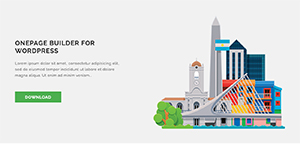
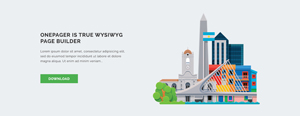
[Block] content 1 done image source left

diff --git a/onepager/resources/src/styles/blocks.less b/onepager/resources/src/styles/blocks.less
@@ -15,6 +15,14 @@
 body{ position: relative; .transition(all .25s ease-out); }
 
 /* ==========================================
+   Blocks: Common
+ ============================================ */
+.title-sm{ font-size: 2em; }
+.title-md{ font-size: 3.5em; }
+.title-lg{ font-size: 5em; }
+
+.op-section .btn{ border: 0;}
+/* ==========================================
    Blocks: Navbar
  ============================================ */
 
@@ -86,3 +94,14 @@ body{ position: relative; .transition(all .25s ease-out); }
 /* ==========================================
    Blocks: Header
  ============================================ */
+
+
+
+/* ==========================================
+   Blocks: Contents
+ ============================================ */
+.content-1{ 
+	padding: 60px 0; 
+	.title{ text-transform: uppercase; color: #222; }
+	.btn{ margin-top: 20px; .border-radius(0); }
+}

diff --git a/onepager/blocks/contents/content-1/config.php b/onepager/blocks/contents/content-1/config.php
@@ -19,7 +19,7 @@ return array(
       'name'     => 'media_alignment',
       'label'    => 'Meida Alignment',
       'type'     => 'select',
-      'value'    => 'left',
+      'value'    => 'right',
       'options'  => array(
         'left'    => 'Left',
         'right'   => 'Right'
@@ -43,11 +43,11 @@ return array(
       'name'     => 'title_size',
       'label'    => 'Title Size',
       'type'     => 'select',
-      'value'    => '3.5em',
+      'value'    => 'title-sm',
       'options'  => array(
-        '2em'     => 'Small',
-        '3.5em'   => 'Medium',
-        '5em'     => 'Large'
+        'title-sm'      => 'Small',
+        'title-md'      => 'Medium',
+        'title-lg'      => 'Large'
       ),
     ),
     array(
@@ -104,8 +104,7 @@ return array(
     array(
       'name'  => 'bg_image', 
       'label' => 'Image', 
-      'type'  => 'image', 
-      'tab'   => 'styles'
+      'type'  => 'image'
     ),
     array(
       'name'     => 'bg_repeat',
@@ -115,37 +114,35 @@ return array(
         'no-repeat'     => 'No Repeat',
         'repeat-x'      => 'Repeat X',
         'repeat-y'      => 'Repeat Y',
-      ),
-      'tab' => 'styles'
+      )
     ),
     array(
       'name'    => 'bg_color',
       'label'   => 'Color',
       'type'    => 'colorpicker',
-      'tab'     => 'styles'
+      'value'   => '#ebeff2'
     ),
     array('label'=>'Text', 'type'=>'divider'), // Divider - Text
     array(
       'name'  => 'text_color',
       'label' => 'Text Color',
-      'type'  => 'colorpicker',
-      'tab'   => 'styles'
+      'type'  => 'colorpicker'
     ),
     array(
       'name'    => 'button_bg_color',
       'label'   => 'Button Background',
       'type'    => 'colorpicker',
-      'tab'     => 'styles'
+      'value'   => '#4cb257'
     ),
     array(
       'name'    => 'button_text_color',
       'label'   => 'Button Text',
       'type'    => 'colorpicker',
-      'tab'     => 'styles'
+      'value'   => '#fff'
     ),
   ),
 
-  'assets' => function( $path ){
-    onepager()->asset()->style( 'content-1', $path . 'style.css' );
-  }
+  // 'assets' => function( $path ){
+  //   onepager()->asset()->style( 'content-1', $path . 'style.css' );
+  // }
 );

diff --git a/onepager/blocks/contents/content-1/view.php b/onepager/blocks/contents/content-1/view.php
@@ -22,7 +22,7 @@
 					<div class="col-md-<?php echo $content_cols ?> wow <?php echo $animation_content ?>">	
 						<!-- Title -->
 						<?php if($contents['title']): ?>
-							<h1 class="title"><?php echo $contents['title']?></h1>
+							<h1 class="title <?php echo $settings['title_size']?>"><?php echo $contents['title']?></h1>
 						<?php endif; ?>
 						<!-- Description -->
 						<?php if($contents['description']): ?>

diff --git a/onepager/blocks/contents/content-1/style.php b/onepager/blocks/contents/content-1/style.php
@@ -7,10 +7,6 @@
 	color : <?php echo $styles['text_color']?>;
 }
 
-#<?php echo $id ?> .title{
-	font-size: <?php echo $styles['title_size']?>;
-}
-
 #<?php echo $id ?> .btn{
 	background: <?php echo $styles['button_bg_color']?>;
 	color : <?php echo $styles['button_text_color']?>;
